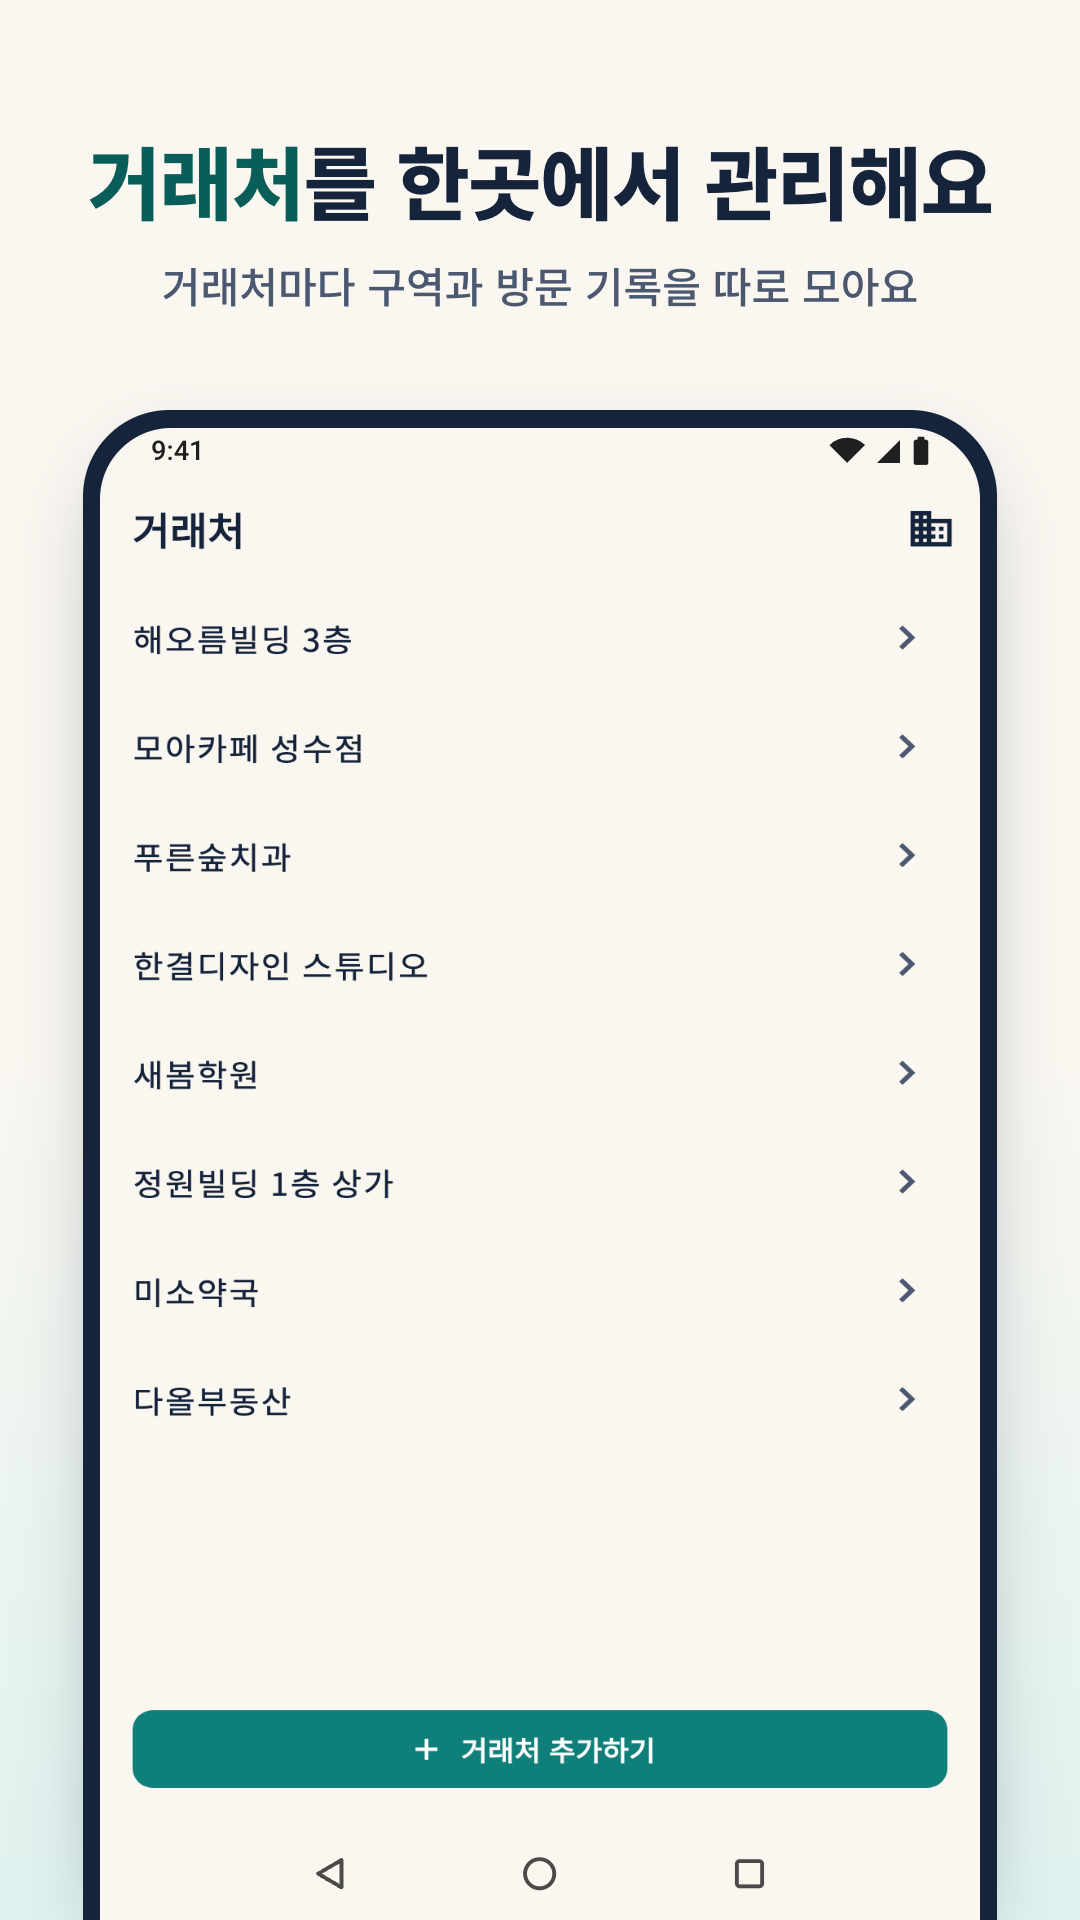
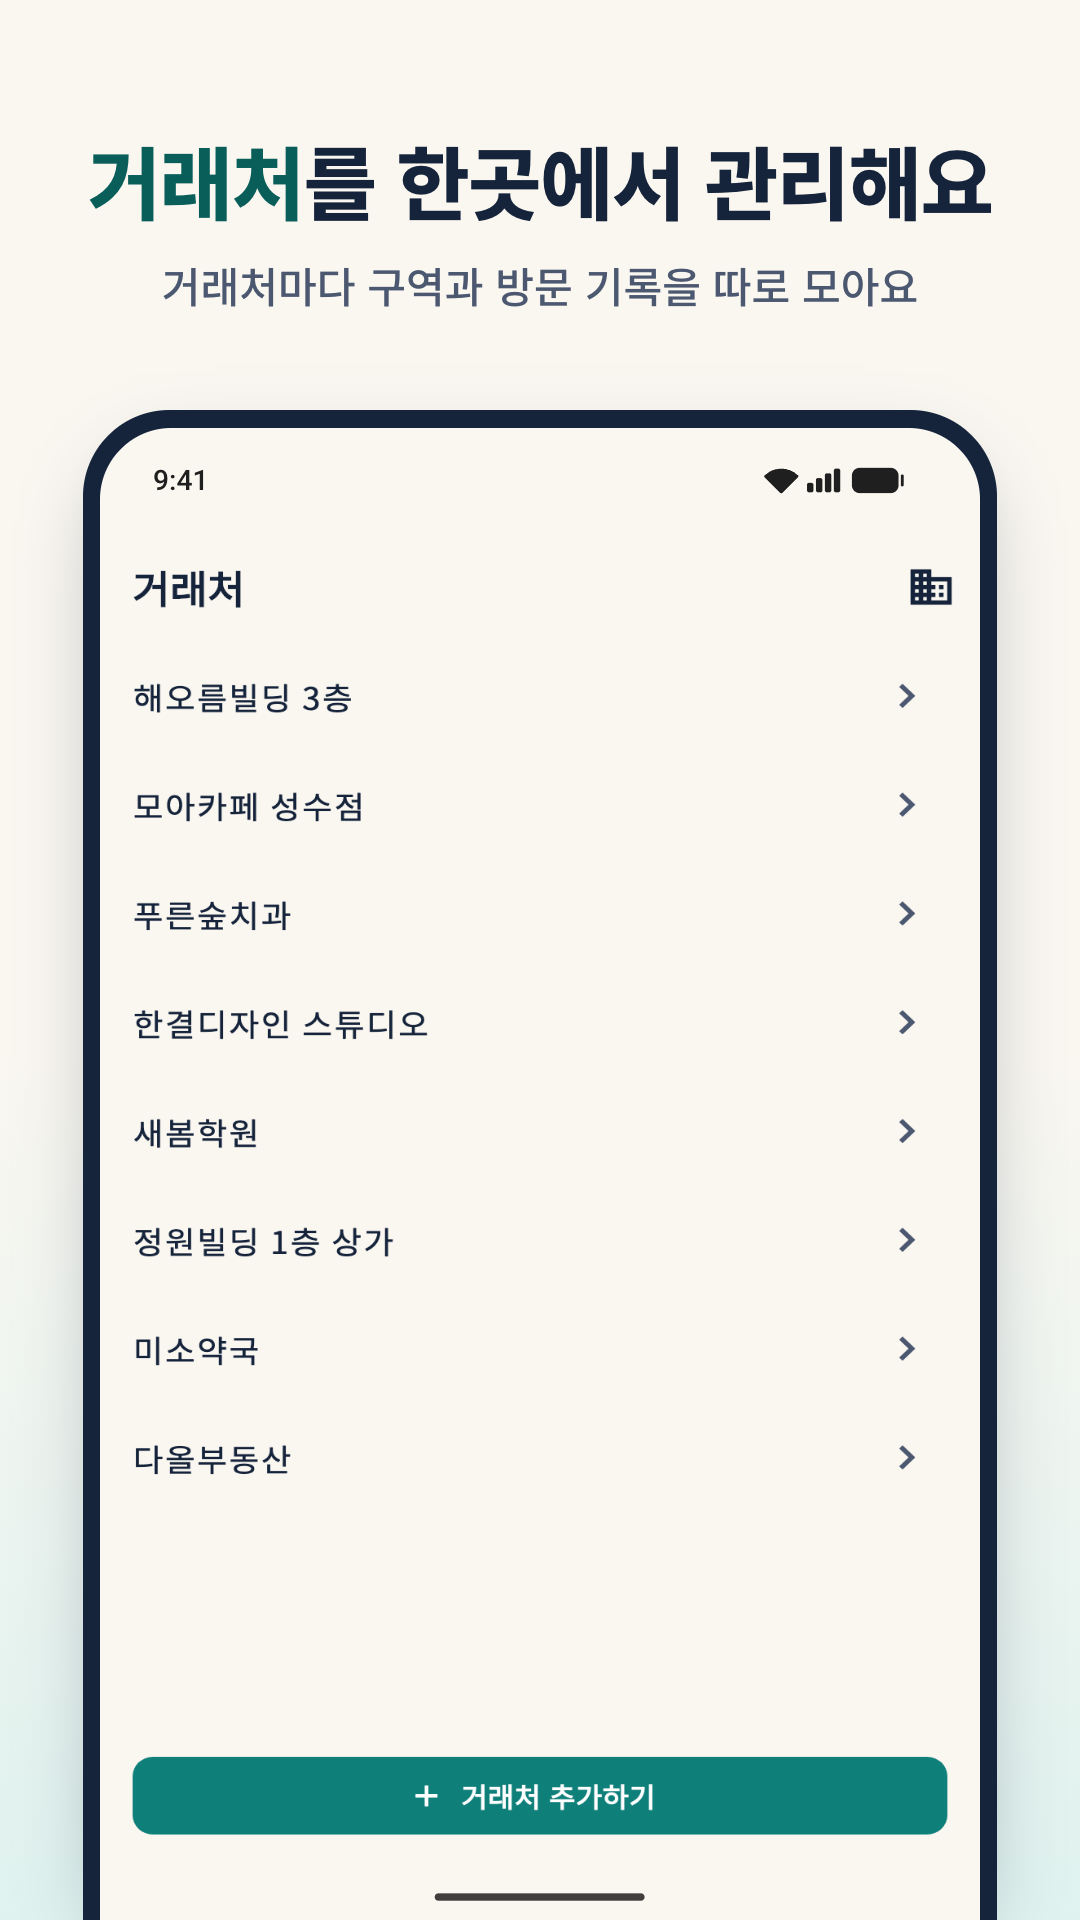
fix(store): draw the Android bars that a Pixel shows
The framework defaults of 24 and 48 dp describe a phone without a camera cutout and with three-button navigation.
On the Pixel 10 emulator, `dumpsys window` reports a 142-pixel status bar and a 63-pixel gesture navigation bar at 420 dpi, which are 54 and 24 dp.
The Android frame now uses those insets and draws the status icons and the gesture handle at the sizes and positions measured on a screenshot of that emulator.

diff --git a/tool/store_screenshots/frame.html b/tool/store_screenshots/frame.html
@@ -263,8 +263,10 @@
         });
       }
 
-      // The Android status bar and three-button navigation bar, in density-independent pixels, with the 16 dp margins
-      // and the icon shapes of the AOSP system UI.
+      // The Android status bar and gesture navigation bar, in density-independent pixels. The sizes and the positions
+      // were measured on a Pixel 10 emulator screenshot: every status item is centered at half of the top inset, the
+      // time starts 17 dp from the left, the battery cap ends 28.6 dp from the right, and the handle is centered in the
+      // bottom inset.
       function drawAndroid() {
         const { width, height, top, bottom } = device;
         const ink = "#1f1f1f";
@@ -272,65 +274,65 @@
         draw(
           "text",
           {
-            x: 16,
+            x: 17,
             y,
             "dominant-baseline": "central",
             "font-family": "Roboto, sans-serif",
-            "font-size": 14,
+            "font-size": 14.5,
             "font-weight": 500,
             fill: ink,
           },
           "9:41",
         );
-        const battery = width - 16 - 7.5;
+        // The battery: a 24 x 13 dp body and its cap, 26.7 dp in all.
+        const battery = width - 28.6 - 26.7;
         draw("rect", {
           x: battery,
-          y: y - 6,
-          width: 7.5,
+          y: y - 6.5,
+          width: 24,
           height: 13,
-          rx: 1.2,
+          rx: 4,
           fill: ink,
         });
         draw("rect", {
-          x: battery + 2,
-          y: y - 7.5,
-          width: 3.5,
-          height: 2,
-          rx: 0.5,
+          x: battery + 25.2,
+          y: y - 3.05,
+          width: 1.5,
+          height: 6.1,
+          rx: 0.7,
           fill: ink,
         });
-        const signal = battery - 7 - 12;
+        // The signal: four bars in 17.1 x 12.2 dp.
+        const signal = battery - 6 - 17.1;
+        [0.4, 0.6, 0.8, 1].forEach((share, index) => {
+          const barHeight = 12.2 * share;
+          draw("rect", {
+            x: signal + index * 4.6,
+            y: y + 6.1 - barHeight,
+            width: 3.3,
+            height: barHeight,
+            rx: 1,
+            fill: ink,
+          });
+        });
+        // The Wi-Fi fan: 16.4 x 12.2 dp with rounded corners.
+        const wifi = signal - 5 - 8.2;
         draw("path", {
-          d: `M ${signal} ${y + 6} L ${signal + 12} ${y + 6} L ${signal + 12} ${y - 6} Z`,
+          d: `M ${wifi} ${y + 6.1} L ${arc(wifi, y + 6.1, 11.6, 45).slice(2)} Z`,
           fill: ink,
-        });
-        const wifi = signal - 6 - 9.2;
-        draw("path", {
-          d: `M ${wifi} ${y + 6} L ${arc(wifi, y + 6, 13, 45).slice(2)} Z`,
-          fill: ink,
-        });
-
-        const navigation = height - bottom / 2;
-        const stroke = {
-          fill: "none",
           stroke: ink,
-          "stroke-width": 2,
+          "stroke-width": 1.2,
           "stroke-linejoin": "round",
-          "stroke-opacity": 0.8,
-        };
-        const back = width * 0.25;
-        draw("path", {
-          d: `M ${back - 6} ${navigation} L ${back + 6} ${navigation - 7} L ${back + 6} ${navigation + 7} Z`,
-          ...stroke,
         });
-        draw("circle", { cx: width / 2, cy: navigation, r: 7.5, ...stroke });
+        // The gesture handle: 108 x 3.8 dp.
         draw("rect", {
-          x: width * 0.75 - 6.5,
-          y: navigation - 6.5,
-          width: 13,
-          height: 13,
-          rx: 1.5,
-          ...stroke,
+          x: width / 2 - 54,
+          y: height - bottom / 2 - 1.9,
+          width: 108,
+          height: 3.8,
+          rx: 1.9,
+          fill: ink,
+          "fill-opacity": 0.85,
         });
       }
     </script>

diff --git a/tool/store_screenshots/render_screens.dart b/tool/store_screenshots/render_screens.dart
@@ -43,15 +43,15 @@ const _devices = <_Device>[
     topInset: 62,
     bottomInset: 34,
   ),
-  // 1080 x 1920, the 9:16 phone size of Google Play. The insets are status_bar_height and navigation_bar_height of the
-  // Android framework.
+  // 1080 x 1920, the 9:16 phone size of Google Play. The insets are the status bar beside the camera cutout and the
+  // gesture navigation bar, as `dumpsys window` reported them on the Pixel 10 emulator: 142 and 63 pixels at 420 dpi.
   (
     name: 'android',
     platform: TargetPlatform.android,
     logicalSize: Size(432, 768),
     pixelRatio: 2.5,
-    topInset: 24,
-    bottomInset: 48,
+    topInset: 54,
+    bottomInset: 24,
   ),
 ];
 
